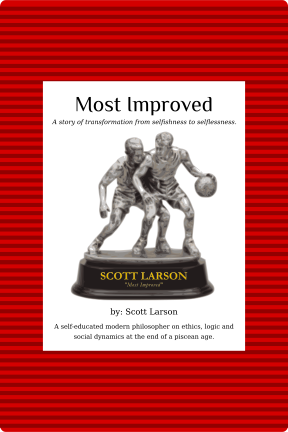
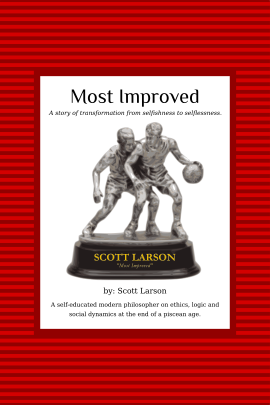
added links and book

diff --git a/content/resources/publications/publication-most-improved.md b/content/resources/publications/publication-most-improved.md
@@ -1,0 +1,25 @@
++++
+title = "Most Improved"
+date = 2019-02-04T13:40:53-08:00
+draft = false
+
+# Tags and categories
+# For example, use `tags = []` for no tags, or the form `tags = ["A Tag", "Another Tag"]` for one or more tags.
+tags = []
+categories = []
+
+# Featured image
+# Place your image in the `static/img/` folder and reference its filename below, e.g. `image = "example.jpg"`.
+[header]
+image = ""
+caption = ""
+
++++
+A story of transformation from selfishness to selflessness.
+
+![Cover](/img/publications/most-improved/cover-most-improved-3x6.png)
+
+> "Most Improved" is a meditation on the process of personal transformation. I experienced a transformation from a "self-centered" worldly view on life, to a "universe-connected" consciousness, where all life has meaning. In August of 2017, I suffered a Cerebral Hemorrhage. While at work, I collapsed, was taken to the hospital, and diagnosed with high blood pressure. My recovery was a miracle, I suffer only minor damage to my body's sensory systems, that improved over time. While recovering in the ICU, and realizing that I was not going to die, I got in touch with a deep feeling of apathy, and sadness about my life.  I realized that previously, I was covering up these feelings with day-to-day distractions. I decided that if I was going to survive, I was going to live differently this time. This determination brought me to place where I developed an understanding on how to really live. I learned from many people including: Mark Passio, James Allen, and David K. Reynolds. I combine Hermetic principles with the Constructive Living practices of David K. Reynolds, and I filter all of that though the ethical teachings of James Allen. In this book I expose how aligning oneself to Cosmic Law brings true happiness. If you want to experience a fellow "life-traveler's" view on overcoming depression, or just want to learn about the state of the world from a modern, self-learned philosopher, then this book is for you.
+
+Purchase the [kindle](https://www.amazon.com/Most-Improved-transformation-selfishness-selflessness-ebook/dp/B07N5K9FCH/) version on Amazon Kindle Direct Publishing.  
+Purchase the [paperback](https://www.amazon.com/dp/1795274042) version on Amazon Books.

diff --git a/content/resources/scoops/scoop-computer-building-basics.md b/content/resources/scoops/scoop-computer-building-basics.md
@@ -1,0 +1,19 @@
++++
+title = "Computer Building Basics"
+date = 2019-01-31T16:14:05-08:00
+draft = false
+
+# Tags and categories
+# For example, use `tags = []` for no tags, or the form `tags = ["A Tag", "Another Tag"]` for one or more tags.
+tags = []
+categories = []
+
+# Featured image
+# Place your image in the `static/img/` folder and reference its filename below, e.g. `image = "example.jpg"`.
+[header]
+image = ""
+caption = ""
+
++++
+If you were ever wondering how a desktop computer is built, or you need to understand how to build your own, this is a good reference video from newegg.com to get you started. On a side note, and this is not a plug, newegg.com is a great place to purchase hardware. They have good return policies and prices.
+https://www.youtube.com/watch?v=lPIXAtNGGCw

diff --git a/content/resources/links/link-driver-utilities.md b/content/resources/links/link-driver-utilities.md
@@ -1,0 +1,20 @@
++++
+title = "Driver Utilities"
+date = 2019-01-31T16:30:14-08:00
+draft = false
+
+# Tags and categories
+# For example, use `tags = []` for no tags, or the form `tags = ["A Tag", "Another Tag"]` for one or more tags.
+tags = []
+categories = []
+
+# Featured image
+# Place your image in the `static/img/` folder and reference its filename below, e.g. `image = "example.jpg"`.
+[header]
+image = ""
+caption = ""
+
++++
+These tools are for professionals that know what they are doing, use with care.
+
+[DDU - Driver Display Uninstaller](https://www.guru3d.com/files-details/display-driver-uninstaller-download.html)

diff --git a/content/resources/links/link-computer-building-basics.md b/content/resources/links/link-computer-building-basics.md
@@ -1,0 +1,17 @@
++++
+title = "Link Computer Building Basics"
+date = 2019-01-31T16:16:37-08:00
+draft = false
+
+# Tags and categories
+# For example, use `tags = []` for no tags, or the form `tags = ["A Tag", "Another Tag"]` for one or more tags.
+tags = []
+categories = []
+
+# Featured image
+# Place your image in the `static/img/` folder and reference its filename below, e.g. `image = "example.jpg"`.
+[header]
+image = ""
+caption = ""
+
++++

diff --git a/content/resources/publications/_index.md b/content/resources/publications/_index.md
@@ -16,5 +16,3 @@ list_format = 3
 image = ""
 caption = ""
 +++
-
-No publications as of yet.
